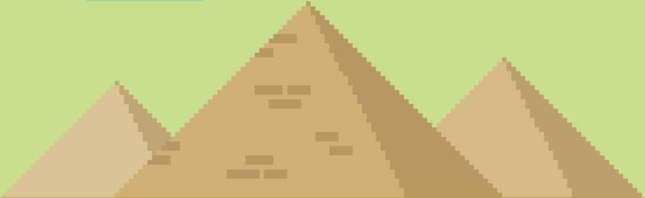
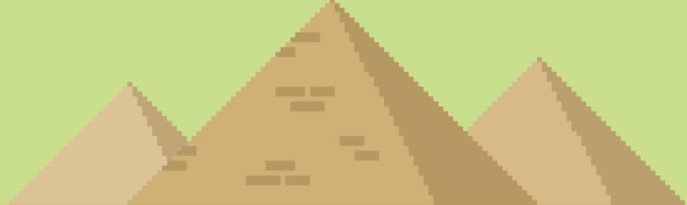
Level 5 UI Fully Implemented

diff --git a/level5.py b/level5.py
@@ -81,7 +81,7 @@ palm_tree_with_rock = pygame.image.load("./desert_images/palm_tree_with_rock.png
 palm_tree_with_rock = pygame.transform.scale(palm_tree_with_rock, (TILE_SIZE * 2.5, TILE_SIZE * 3))
 
 pyramids = pygame.image.load("./desert_images/pyramids.png")
-pyramids = pygame.transform.scale(pyramids, (TILE_SIZE, TILE_SIZE))
+pyramids = pygame.transform.scale(pyramids, (TILE_SIZE * 6, TILE_SIZE * 2))
 
 rock = pygame.image.load("./desert_images/rock.png")
 rock = pygame.transform.scale(rock, (TILE_SIZE, TILE_SIZE // 2))
@@ -104,7 +104,7 @@ flag = pygame.transform.scale(flag, (TILE_SIZE, TILE_SIZE))
 sand = pygame.image.load("./desert_images/sand.png")
 sand = pygame.transform.scale(sand, (TILE_SIZE, TILE_SIZE))
 
-coin = pygame.image.load("./images/coin.png")
+coin = pygame.image.load("./desert_images/coin.png")
 coin = pygame.transform.scale(coin, (TILE_SIZE, TILE_SIZE))
 
 high_jump = pygame.image.load("./images/high_jump.png")
@@ -132,8 +132,17 @@ left_dash = pygame.transform.flip(dash_powerup, True, False)
 jump_reset = pygame.image.load("./images/bubble.png")
 jump_reset = pygame.transform.scale(jump_reset, (TILE_SIZE, TILE_SIZE))
 
-# Set up the level with a width of 300 and a height of 30 rows
-level_width = 300
+full_walkway = pygame.image.load("./desert_images/full_walkway.png")
+full_walkway = pygame.transform.scale(full_walkway, (TILE_SIZE * 8, TILE_SIZE * 2))
+
+iron_boots = pygame.image.load("./images/boots.png")
+iron_boots = pygame.transform.scale(iron_boots, (TILE_SIZE, TILE_SIZE))
+
+sign = pygame.image.load("./desert_images/sign.png")
+sign = pygame.transform.scale(sign, (TILE_SIZE, TILE_SIZE))
+
+# Set up the level with a width of 290 and a height of 30 rows
+level_width = 290
 level_height = HEIGHT // TILE_SIZE  # Adjust level height according to user's resolution
 
 level_map = [[0] * level_width for _ in range(level_height)]  # Start with air
@@ -155,12 +164,13 @@ level_map[6][133] = 12 # Coin
 # Dictionary containing which tile corresponds to what
 tiles = {0: background, 1: ground_tile, 2: platform_tile, 3: dirt_tile,  4: thorns, 5: water, 6: water_block, 7: flag, 8: sand, 9: flipped_thorn, 10: left_thorn,
          11: right_thorn, 12: coin, 13: high_jump, 14: speed_boots, 15: balloon, 16: full_cactus, 17: glider, 18: double_jump_boots, 19: spring, 20: dash_powerup,
-         21: left_dash, 22: jump_reset}
+         21: left_dash, 22: jump_reset, 23: full_walkway, 24: iron_boots, 25: pyramids, 26: sign}
 
-rocks = {13, 55, 106} # Column numbers for all the rocks
-cacti = {11, 53, 107} # Column number for the cactuses
-full_cacti = {87, 111} # Column number for the full cactuses
-palm_tree_with_rocks = {22} # Column number for the palm_tree_with_rock
+rocks = {13, 55, 106, 149, 218, 240, 247} # Column numbers for all the rocks
+cacti = {11, 53, 107, 228, 255, 280} # Column numbers for the cactuses
+full_cacti = {87, 111, 141} # Column numbers for the full cactuses
+palm_tree_with_rocks = {22} # Column numbers for the palm_tree_with_rock
+signs = {51, 152, 258} # Column numbers for signs
 
 # Converts the x coordinates to the column on the map
 def calculate_column(x): 
@@ -194,6 +204,9 @@ def show_level_completed_screen(slot: int, death_count: int):
     show_level_complete_deaths(slot, 0, death_count)
 
 def show_game_over_screen(slot: int):
+
+    respawn_gadgets() # Respawn all gadgets on the level
+    respawn_powerups() # Respawn all powerups on the level
     
     update_save(slot, {"Level 5 Checkpoint": 0}) # Set checkpoint to 0
     update_save(slot, {"Level 5 Time": 150})
@@ -216,6 +229,8 @@ def respawn_terrain():
             row[col_index] = 0  # Set to air (pit)
         for col_index in range(230, 235):  # Remove ground in columns [230-235)
             row[col_index] = 0  # Set to air (pit)
+        for col_index in range(260, 270):  # Remove ground in columns [260-270)
+            row[col_index] = 0  # Set to air (pit)
         level_map[row_index] = row  # Add row to level map
 
     # Add solid ground at the very bottom
@@ -237,6 +252,12 @@ def respawn_terrain():
         level_map[row_index][210:225] = [8] * 15
     for row_index in range(SURFACE-2, level_height): # Sand
         level_map[row_index][225:230] = [8] * 5
+    for row_index in range(SURFACE-6, level_height): # Sand
+        level_map[row_index][248:253] = [8] * 5
+    for row_index in range(SURFACE-10, level_height): # Raised Sand
+        level_map[row_index][253:257] = [8] * 4
+    for row_index in range(SURFACE-14, level_height): # Raised Sand
+        level_map[row_index][257:260] = [8] * 3
 
     # Make terrain before this line (unless it's floating). The next code block calculates the ground levels.
 
@@ -261,10 +282,14 @@ def respawn_terrain():
     level_map[SURFACE-7][40:50] = [1] * 10 # Floating Ground
     level_map[SURFACE-6][40:50] = [3] * 10 # Floating Dirt
 
+    level_map[SURFACE-8][46:50] = [4] * 4 # Thorns
+
     level_map[SURFACE-9][43] = 16 # Full Cactus
 
     level_map[SURFACE-7][55:65] = [1] * 10 # Floating Ground
     level_map[SURFACE-6][55:65] = [3] * 10 # Floating Dirt
+
+    level_map[SURFACE-9][57] = 25 # Pyramids
 
     level_map[level_height-2][60:80] = [5] * 20 # Water Block
     level_map[level_height-1][60:80] = [6] * 20 # Water Block
@@ -295,14 +320,34 @@ def respawn_terrain():
 
     level_map[SURFACE-1][158] = 19 # Spring
 
+    level_map[SURFACE][212] = 7 # Flag
+
+    level_map[SURFACE][221] = 4 # Thorns
+
+    level_map[SURFACE-6][235:240] = [8] * 5
+    level_map[SURFACE-5][235:240] = [3] * 5
+    level_map[SURFACE-4][235:240] = [3] * 5
+    level_map[SURFACE-3][235:240] = [3] * 5
+
+    level_map[SURFACE-7][240] = 23 # Full Walkway/Bridge
+
+    level_map[SURFACE-1][274] = 25 # Pyramids
+    level_map[SURFACE-1][282] = 25 # Pyramids
+
 def respawn_gadgets():
     level_map[3][82] = 14 # Speed Boots
+
     level_map[SURFACE][58] = 17 # Glider
 
     level_map[SURFACE-13][174] = 18 # Double Jump Boots
 
+    level_map[SURFACE-5][243] = 18 # Double Jump Boots
+
+    level_map[SURFACE][215] = 24 # Iron Boots
+
 def respawn_powerups():
     level_map[SURFACE-2][18] = 13 # High Jump
+    level_map[SURFACE-8][33] = 13 # High Jump
     level_map[SURFACE-6][114] = 15 # Balloon
 
     level_map[SURFACE-3][147] = 20 # Dash Powerup
@@ -339,7 +384,7 @@ def level_5(slot: int):
 
     run_frames = [pygame.transform.scale(frame, (TILE_SIZE, TILE_SIZE)) for frame in run_frames]
 
-    checkpoints = [(calculate_x_coordinate(5), calculate_y_coordinate(SURFACE))]
+    checkpoints = [(calculate_x_coordinate(5), calculate_y_coordinate(SURFACE)), (calculate_x_coordinate(82), calculate_y_coordinate(SURFACE)), (calculate_x_coordinate(212), calculate_y_coordinate(SURFACE))]
     checkpoint_bool = [False] * len(checkpoints)
     checkpoint_bool[0] = True
     checkpoint_idx = load_save(slot).get("Level 5 Checkpoint")
@@ -355,7 +400,7 @@ def level_5(slot: int):
     player_y = checkpoints[checkpoint_idx][1]  # Start y position, change this number to spawn in a different place
 
     # 8.5 should be standard speed
-    player_speed = 30 * scale_factor # Adjust player speed according to their resolution
+    player_speed = 8.5 * scale_factor # Adjust player speed according to their resolution
     player_vel_x = 0 # Horizontal velocity for friction/sliding
     player_vel_y = 0 # Vertical velocity for jumping
     gravity = 1.25 * scale_factor # Gravity effect (Greater number means stronger gravity)
@@ -366,6 +411,12 @@ def level_5(slot: int):
     higherJumps = False
     hasBalloon = False
     balloon_vel = 0  # Initial vertical velocity
+
+    # FOR KENNY TO USE (gadget booleans)
+    doubleJumpBoots = False
+    speedBoots = False
+    ironBoots = False
+    glider = False
 
     animation_index = 0  # Alternates between 0 and 1
     animation_timer = 0  # Tracks when to switch frames
@@ -381,7 +432,7 @@ def level_5(slot: int):
     if not death_count:
         death_count = 0
 
-    collidable_tiles = {1, 2, 3, 8}
+    collidable_tiles = {1, 2, 3, 8, 23}
     dying_tiles = {4, 5, 6, 9, 10, 11}
 
     start_time = load_save(slot).get("Level 5 Time") # Timer resumes from last time they saved
@@ -393,8 +444,8 @@ def level_5(slot: int):
     running = True
     while running:
         
-        print(f"Row: SURFACE - {SURFACE - calculate_row(player_y)}")
-        print(f"Column: {calculate_column(player_x)}")
+        #print(f"Row: SURFACE - {SURFACE - calculate_row(player_y)}")
+        #print(f"Column: {calculate_column(player_x)}")
 
         screen.blit(background, (0, 0))
 
@@ -443,16 +494,21 @@ def level_5(slot: int):
             y = (ground_levels[i] - 3) * TILE_SIZE
             screen.blit(palm_tree_with_rock, (x, y))
 
+        for i in signs:  # Adding signs
+            x = i * TILE_SIZE - camera_x
+            y = (ground_levels[i] - 1) * TILE_SIZE
+            screen.blit(sign, (x, y))
+
         acceleration = 0.5  # Slower acceleration on ice
         friction = normal_friction if not on_ice else ice_friction
 
         # Handle events
         keys = pygame.key.get_pressed()
         moving = False
-        if keys[pygame.K_w]:
-            player_y -= player_speed
-        if keys[pygame.K_s]:
-            player_y += player_speed
+        # if keys[pygame.K_w]:
+        #     player_y -= player_speed
+        # if keys[pygame.K_s]:
+        #     player_y += player_speed
         if keys[pygame.K_d]: # If player presses D
             if on_ice:
                 player_vel_x += acceleration
@@ -514,9 +570,9 @@ def level_5(slot: int):
                 screen.blit(flipped_player, (player_x - camera_x, player_y))
 
         # Apply gravity
-        # if not hasBalloon:
-        #     player_vel_y += gravity
-        #     player_y += player_vel_y
+        if not hasBalloon:
+            player_vel_y += gravity
+            player_y += player_vel_y
 
         on_ground = False
         on_ice = False
@@ -533,6 +589,9 @@ def level_5(slot: int):
                         player_vel_y = 0
                         on_ground = True  # Player lands
                         doubleJumped = False # Reset double jump
+
+                    if tile == 23: # If walkway, ignore collision from left and right and from bottom
+                        continue
 
                     # This code block ensures collision with solid blocks from the left and right
                     if (player_y + TILE_SIZE > tile_y and player_y < tile_y + TILE_SIZE):  # If the player is at the same height as the block
@@ -561,6 +620,31 @@ def level_5(slot: int):
                         dying = True
                         death_sound.play()
 
+                if tile == 17: # Picked up glider (For Kenny to do)
+                    tile_x, tile_y = col_index * TILE_SIZE, row_index * TILE_SIZE
+
+                    if (player_x + TILE_SIZE > tile_x and player_x < tile_x + TILE_SIZE and 
+                        player_y + TILE_SIZE > tile_y and player_y < tile_y + TILE_SIZE):
+                    
+                        level_map[row_index][col_index] = 0
+                        glider = True
+                        for row_index in range(GROUND, level_height):
+                            level_map[row_index][30:35] = [0] * 5
+                            level_map[row_index][40:45] = [0] * 5
+                        ground_levels[30:35] = [level_height] * 5
+                        ground_levels[40:45] = [level_height] * 5
+
+                if tile == 24: # Picked up iron boots (For Kenny to do)
+                    tile_x, tile_y = col_index * TILE_SIZE, row_index * TILE_SIZE
+
+                    if (player_x + TILE_SIZE > tile_x and player_x < tile_x + TILE_SIZE and 
+                        player_y + TILE_SIZE > tile_y and player_y < tile_y + TILE_SIZE):
+                        
+                        level_map[row_index][col_index] = 0
+                        collidable_tiles.remove(23)
+                        ironBoots = True
+
+
         level_name_font = pygame.font.Font('PixelifySans.ttf', 48)  # Larger font for level name
         level_name_text = level_name_font.render("Level 5", True, WHITE)  # White text
 
@@ -580,6 +664,7 @@ def level_5(slot: int):
             show_game_over_screen(slot)
             running = False
 
+
         if player_x <= 0: # Ensure player is within the bounds of the level and does not go to the left
             player_x = 0
 
@@ -592,6 +677,37 @@ def level_5(slot: int):
             death_count += 1
             update_save(slot, {"Level 5 Deaths": death_count})
             dying = False
+            if checkpoint_idx == 0:
+                glider = False
+                level_map[SURFACE][58] = 17 # Glider
+            if checkpoint_idx == 1:
+                speedBoots = False
+                doubleJumpBoots
+                level_map[3][82] = 14 # Speed Boots
+                level_map[SURFACE-13][174] = 18 # Double Jump Boots
+            if checkpoint_idx == 2:
+                collidable_tiles.add(23)
+                ironBoots = False
+                doubleJumpBoots = False
+                level_map[SURFACE][215] = 24 # Iron Boots
+                level_map[SURFACE-5][243] = 18 # Double Jump Boots
+
+
+        for k, checkpoint in enumerate(checkpoints):
+            x, y = checkpoint
+            if player_x >= x and player_y <= y and player_y >= (y - (TILE_SIZE * 4)) and not checkpoint_bool[k]:
+                checkpoint_idx += 1
+                checkpoint_bool[k] = True
+                update_save(slot, {"Level 5 Checkpoint": checkpoint_idx})
+                update_save(slot, {"Level 5 Time": timer})
+                if checkpoint_idx == 1:
+                    glider = False
+                    level_map[SURFACE][58] = 17 # Glider
+                elif checkpoint_idx == 2:
+                    doubleJumpBoots = False
+                    speedBoots = False
+                    level_map[SURFACE-13][174] = 18 # Double Jump Boots
+                    level_map[3][82] = 14 # Speed Boots
 
         # Camera follows player
         camera_x = max(0, min(player_x - WIDTH // 2, (level_width * TILE_SIZE) - WIDTH))
